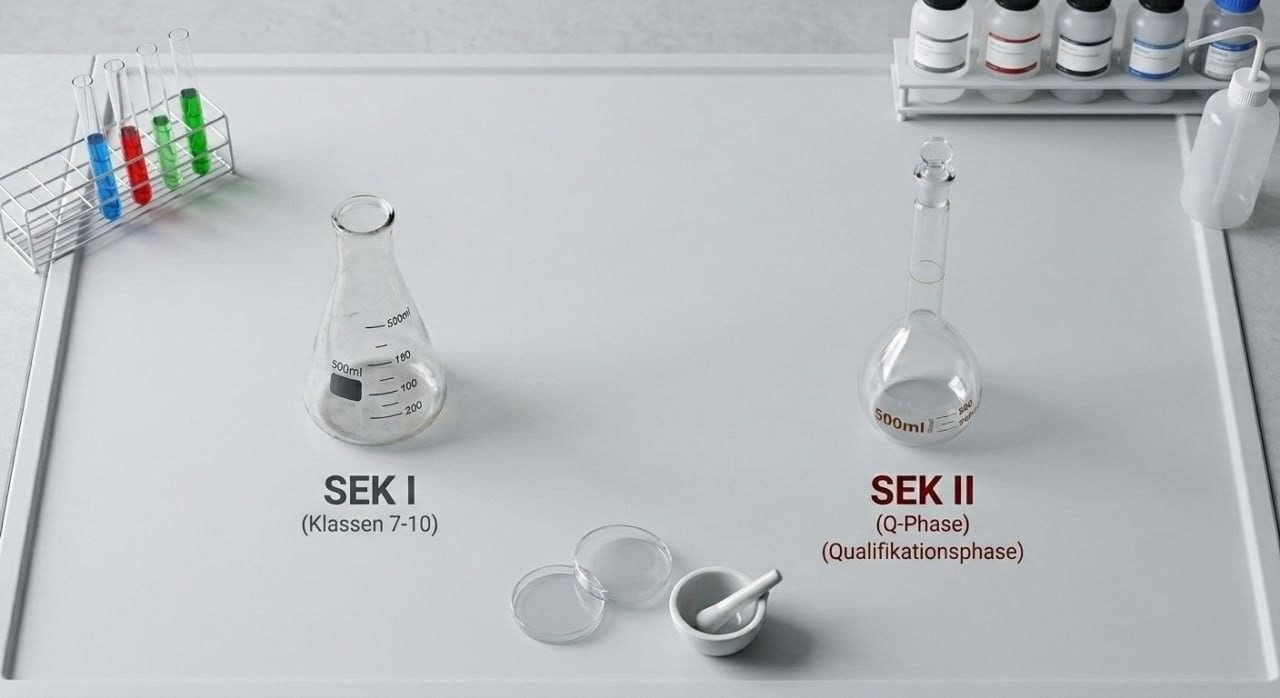
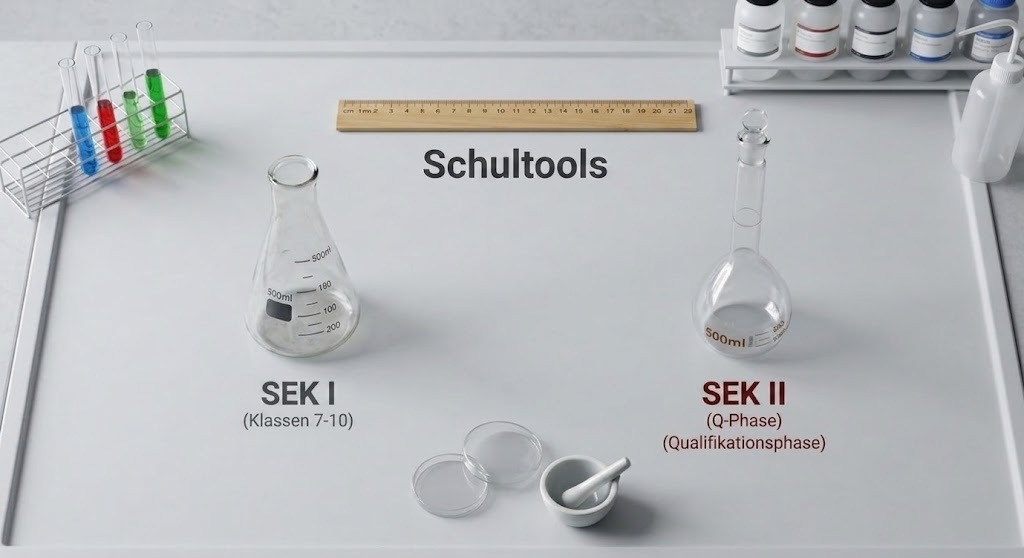
change

diff --git a/index.html b/index.html
@@ -25,12 +25,22 @@
 
     .lab-link:hover {
       box-shadow: 0 0 20px rgba(255, 255, 255, 0.5);
+      background: rgba(255, 255, 255, 0.1);
       transform: scale(1.05);
     }
 
     /* Klickflächen */
     .link-sek1 { top: 35%; left: 24%; width: 15%; height: 35%; }
     .link-sek2 { top: 30%; left: 68%; width: 12%; height: 40%; }
+    
+    /* Neue Klickfläche für Schultools (Lineal) */
+    .link-schultools { 
+      top: 15%; 
+      left: 31%; 
+      width: 38%; 
+      height: 12%; 
+      border-radius: 8px; /* Macht die Fläche rechteckig statt rund */
+    }
 
     /* Impressums-Link */
     .impressum-link {
@@ -52,6 +62,9 @@
   <div class="table-container">
     <a href="./Sekundarstufe-I/index.html" class="lab-link link-sek1" title="Sekundarstufe I"></a>
     <a href="./Sekundarstufe-II/index.html" class="lab-link link-sek2" title="Sekundarstufe II"></a>
+    
+    <!-- Hier ist der neue HTML-Link für das Lineal -->
+    <a href="./Schultools/index.html" class="lab-link link-schultools" title="Schultools"></a>
     
     <a href="./impressum.html" class="impressum-link">Impressum</a>
   </div>
